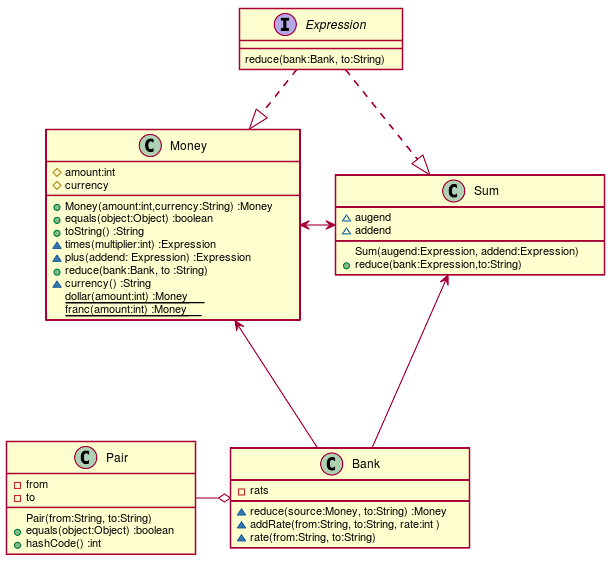
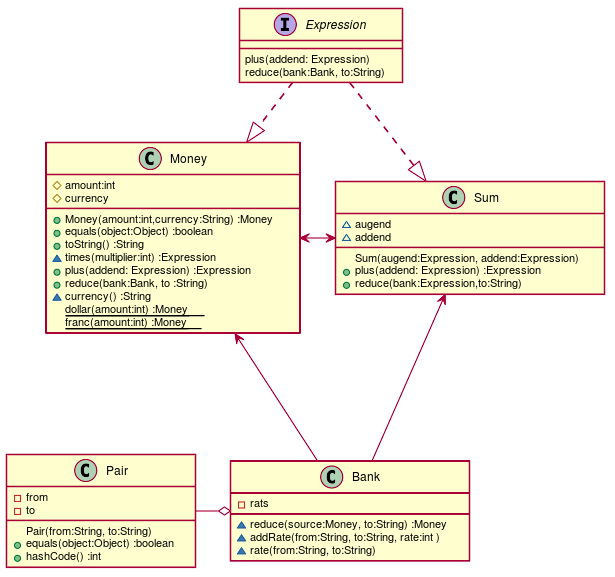
第１５章 テスト任せとコンパイラ任せ Step10

diff --git a/src/main/java/tdd/money/Sum.java b/src/main/java/tdd/money/Sum.java
@@ -7,7 +7,9 @@ class Sum implements Expression {
         this.augend = augend;
         this.addend = addend;
     }
-
+    public Expression plus(Expression added) {
+        return null;
+    }
     public Money reduce(Bank bank, String to) {
         int amount = augend.reduce(bank, to).amount + addend.reduce(bank, to).amount;
         return new Money(amount, to);

diff --git a/src/main/java/tdd/money/Money.java b/src/main/java/tdd/money/Money.java
@@ -10,7 +10,7 @@ class Money implements Expression {
     Expression times(int multiplier) {
         return new Money(amount * multiplier, currency);
     }
-    Expression plus(Expression addend) {
+    public Expression plus(Expression addend) {
         return new Sum(this, addend);
     }
     public Money reduce(Bank bank, String to) {

diff --git a/src/test/java/tdd/money/MoneyTest.java b/src/test/java/tdd/money/MoneyTest.java
@@ -63,7 +63,7 @@ public class MoneyTest {
     }
     @Test
     public void testMixedAddition() {
-        Money fiveBucks = Money.dollar(5);
+        Expression fiveBucks = Money.dollar(5);
         Expression tenFrancs = Money.franc(10);
         Bank bank = new Bank();
         bank.addRate("CHF", "USD", 2);

diff --git a/src/main/java/tdd/money/Expression.java b/src/main/java/tdd/money/Expression.java
@@ -1,5 +1,6 @@
 package tdd.money;
 
 interface Expression {
+    Expression plus(Expression added);
     Money reduce(Bank bank, String to);
 }

diff --git a/docs/TDD.md b/docs/TDD.md
@@ -48,11 +48,11 @@
 ### クラス図
   
 
-![](./assets/0285dfa24ee25b18e00bb369b57da6820.png?0.36734386351297643)  
+![](./assets/0285dfa24ee25b18e00bb369b57da6820.png?0.4550919701969509)  
 ### シーケンス図
   
 
-![](./assets/0285dfa24ee25b18e00bb369b57da6821.png?0.04143539091320414)  
+![](./assets/0285dfa24ee25b18e00bb369b57da6821.png?0.8367977994946676)  
   
 ## コード
   
@@ -123,7 +123,7 @@ public class MoneyTest {
     }
     @Test
     public void testMixedAddition() {
-        Money fiveBucks = Money.dollar(5);
+        Expression fiveBucks = Money.dollar(5);
         Expression tenFrancs = Money.franc(10);
         Bank bank = new Bank();
         bank.addRate("CHF", "USD", 2);
@@ -148,7 +148,7 @@ class Money implements Expression {
     Expression times(int multiplier) {
         return new Money(amount * multiplier, currency);
     }
-    Expression plus(Expression addend) {
+    public Expression plus(Expression addend) {
         return new Sum(this, addend);
     }
     public Money reduce(Bank bank, String to) {
@@ -187,7 +187,9 @@ class Sum implements Expression {
         this.augend = augend;
         this.addend = addend;
     }
-  
+    public Expression plus(Expression added) {
+        return null;
+    }
     public Money reduce(Bank bank, String to) {
         int amount = augend.reduce(bank, to).amount + addend.reduce(bank, to).amount;
         return new Money(amount, to);
@@ -201,6 +203,7 @@ class Sum implements Expression {
 package tdd.money;
   
 interface Expression {
+    Expression plus(Expression added);
     Money reduce(Bank bank, String to);
 }
   

diff --git a/docs/src/TDD.md b/docs/src/TDD.md
@@ -50,6 +50,7 @@ markdown:
 ### クラス図
 ```puml
 interface Expression {
+  plus(addend: Expression)
   reduce(bank:Bank, to:String)
 }
 class Money {
@@ -59,7 +60,7 @@ class Money {
   +equals(object:Object) :boolean  
   +toString() :String
   ~times(multiplier:int) :Expression
-  ~plus(addend: Expression) :Expression
+  +plus(addend: Expression) :Expression
   +reduce(bank:Bank, to :String)      
   ~currency() :String
   {static} dollar(amount:int) :Money
@@ -75,6 +76,7 @@ class Sum {
   ~augend
   ~addend
   Sum(augend:Expression, addend:Expression)
+  +plus(addend: Expression) :Expression  
   +reduce(bank:Expression,to:String)
 }
 class Pair {
